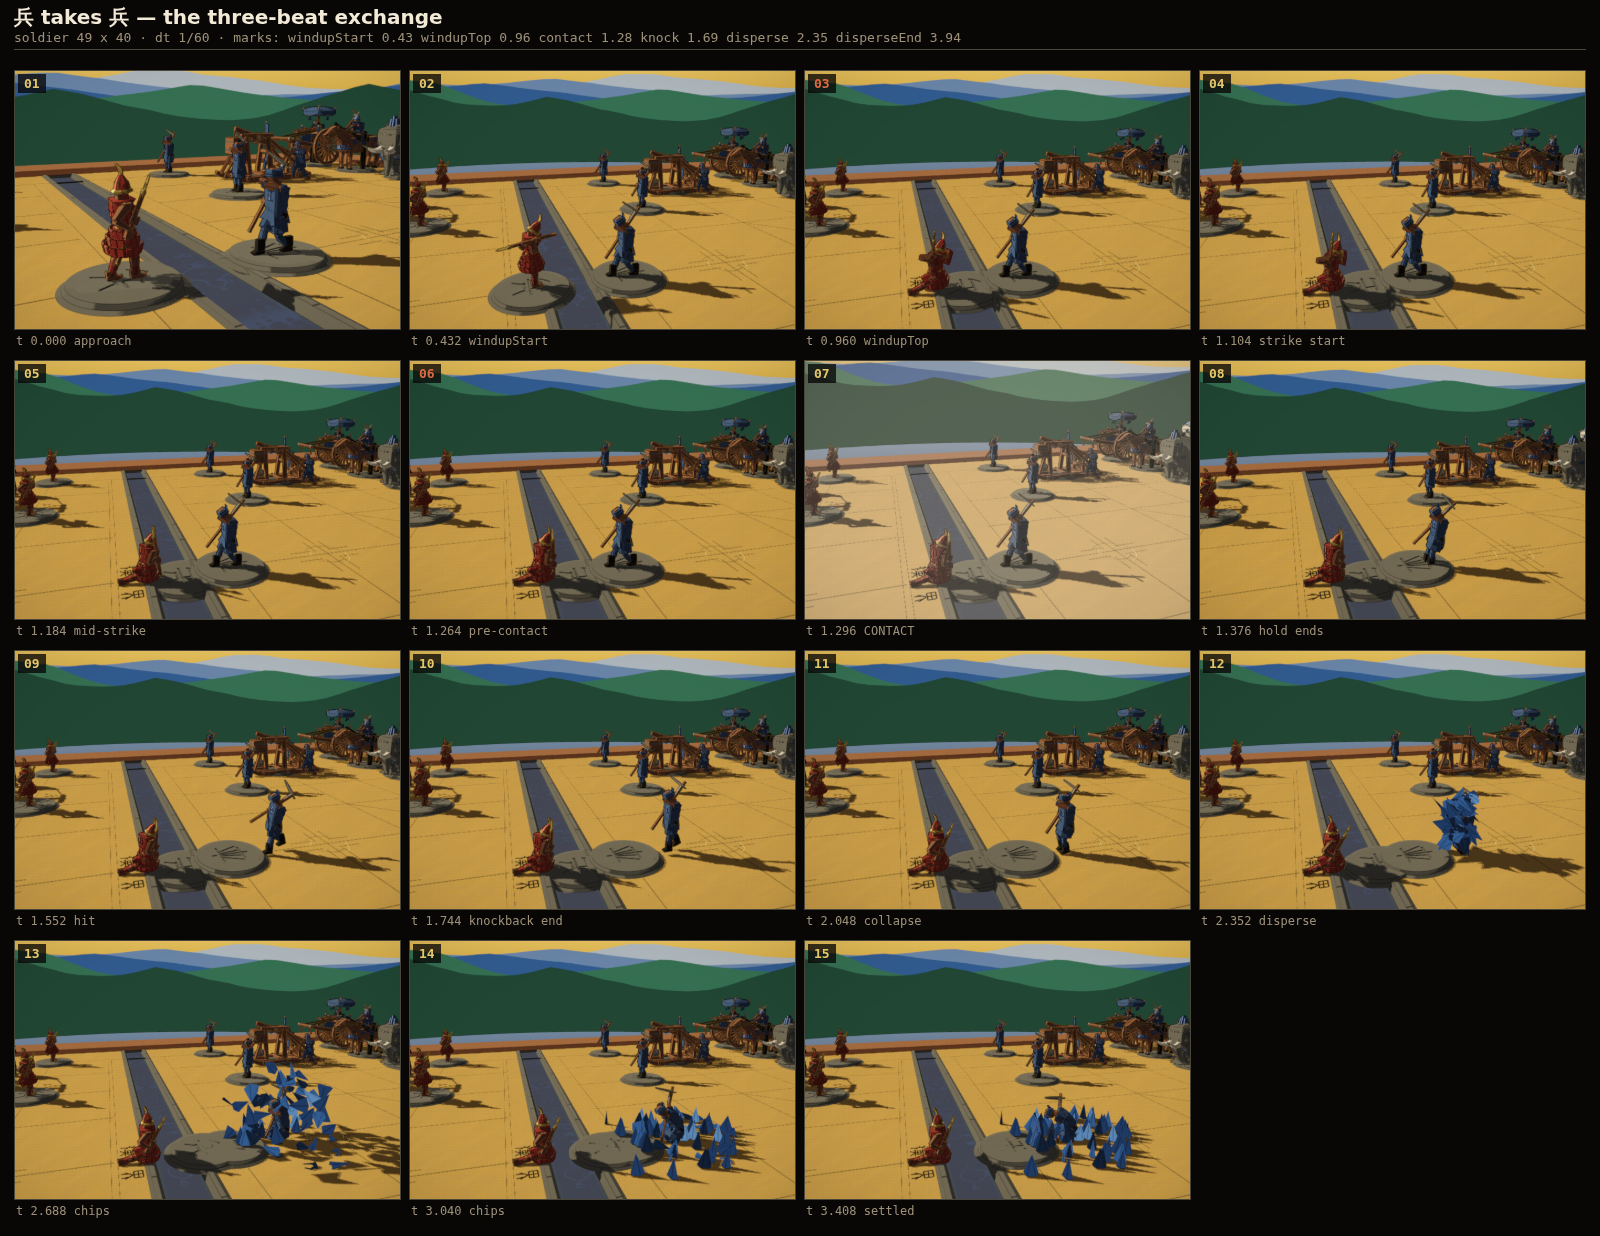
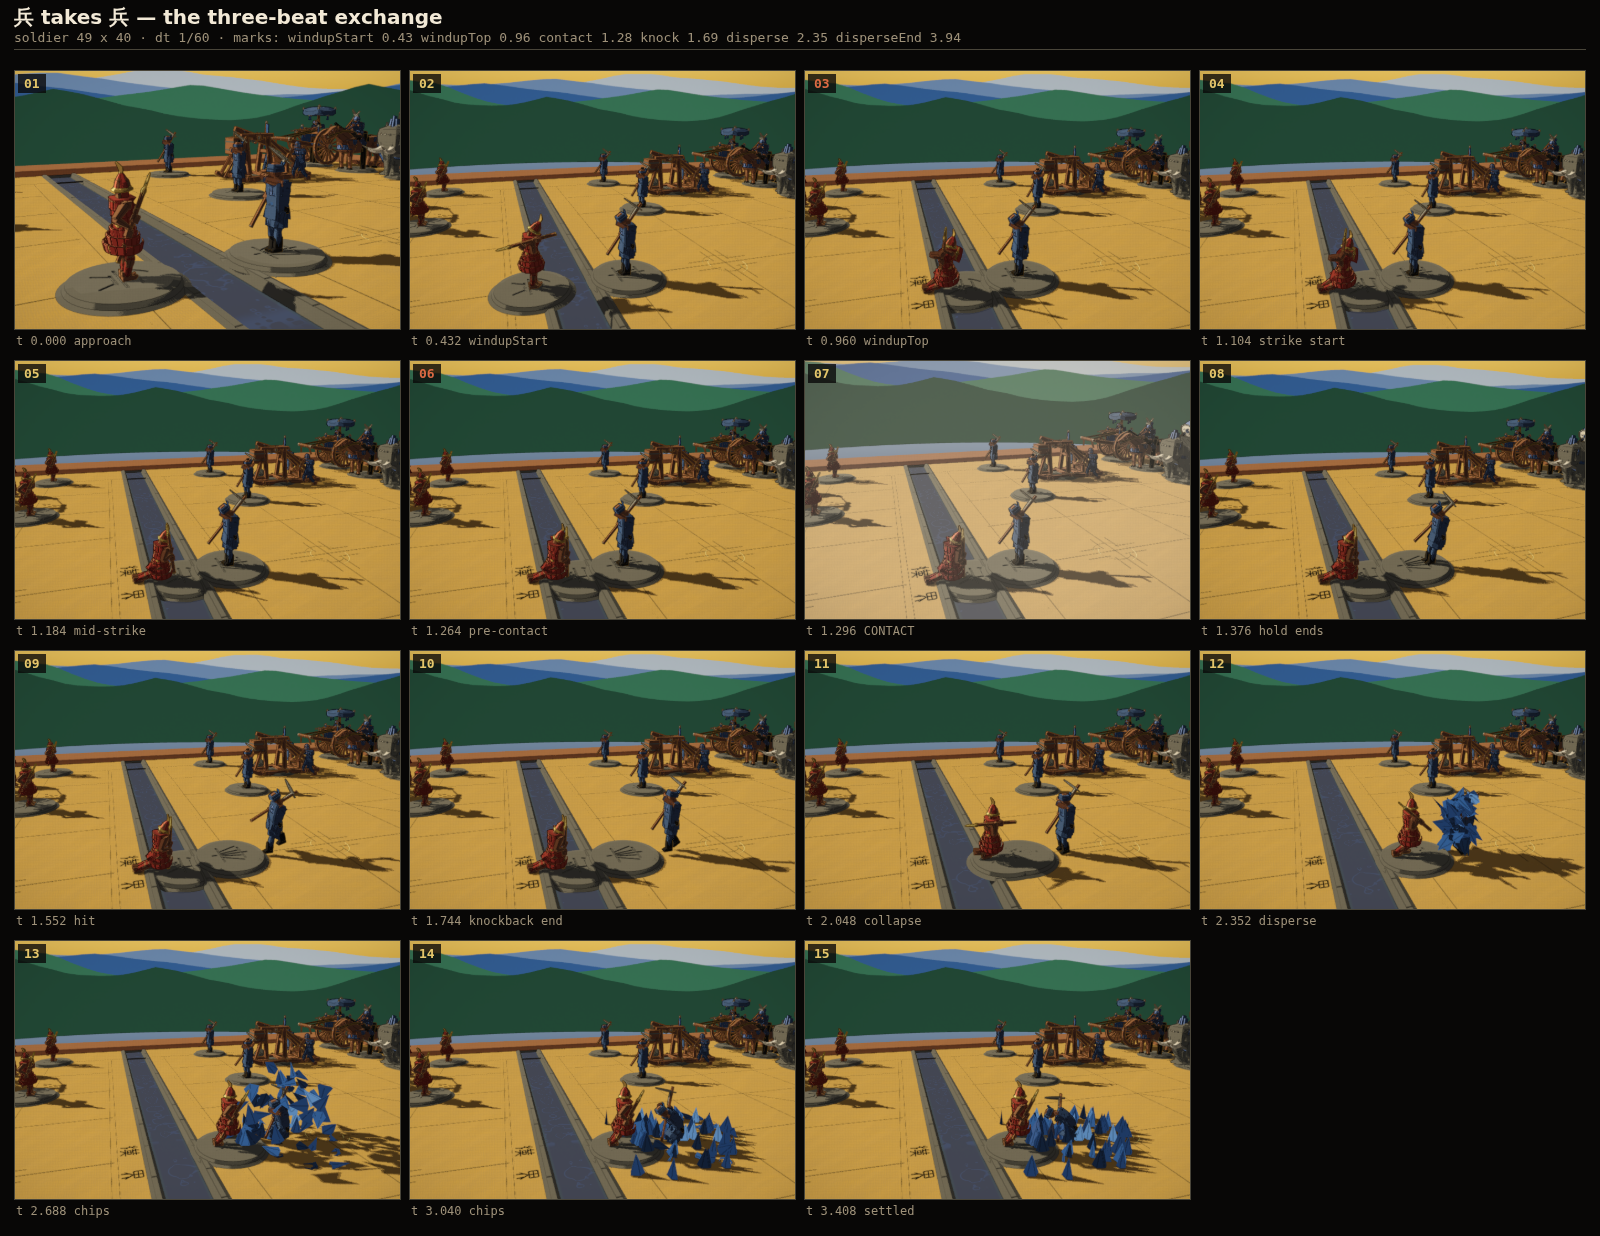
The dead-animation bug was an orphaned animator in the harness, not the mixer
The motion critic's defects 1-4 reproduced exactly, and the cause was not where
any of us looked. The AnimationMixer was fine all along: buildClipSet ->
AnimationMixer -> unit.bones[*].quaternion works, every track name resolves, and
the retarget/IK/contact order does not stamp the pose. What was broken is that
the figure being animated was not the figure on the board.

__XQ.forceMove called match.sync() with no {from, to} hint, so sync retired the
figure and spawned a brand-new UnitInstance — while main.ts's `animators` map is
keyed on the OLD unit.root. animatorFor() therefore missed, and every
choreographer play() became a silent no-op. The choreographer's DIRECT writes —
root position, facing, visibility — kept working, which is exactly why this
presented as "everything through the mixer is dead and everything written to a
transform lives". Measured on the page: all nineteen bone quaternions
byte-identical across 80 consecutive frames while the root translated 0.58 world
units. The same exchange set up with legal playMoves animated fully.

Match.settle has always passed the hint; forceMove now matches it. setPosition
rebuilds every figure by design and so cannot use a hint — it now prunes the
animator map instead, which was otherwise left holding entries keyed on disposed
roots that the frame loop went on ticking against dead skeletons.

The animation author also found a real bug in their own file while chasing this:
[…]

diff --git a/src/main.ts b/src/main.ts
@@ -191,6 +191,17 @@ const choreographer = createChoreographer({
   ground: rig.heightAt,
 });
 
+/** Drop animators whose figure is no longer on the board, and dispose them. */
+function pruneAnimators(): void {
+  const live = new Set<THREE.Object3D>();
+  for (const view of match.views.values()) live.add(view.unit.root);
+  for (const [root, a] of animators) {
+    if (live.has(root)) continue;
+    a.dispose();
+    animators.delete(root);
+  }
+}
+
 function animatorFor(view: PieceView): Animator {
   let a = animators.get(view.unit.root);
   if (!a) {
@@ -585,6 +596,11 @@ const api: XqTestApi = {
     match.moves.length = 0;
     match.notation.length = 0;
     match.sync();
+    // sync() rebuilds every figure here by design, so unlike an ordinary move
+    // there is no from/to hint that would preserve them. That leaves the
+    // animator map holding entries keyed on disposed roots, which the frame loop
+    // would go on ticking against dead skeletons.
+    pruneAnimators();
     for (const view of match.views.values()) {
       dressUnit(view);
       animatorFor(view).play('idle', 0);
@@ -602,7 +618,15 @@ const api: XqTestApi = {
     if (!m) return;
     match.pos.makeMove(m);
     match.moves.push(m);
-    match.sync();
+    // The hint is not optional. Without it, sync() retires the figure and spawns
+    // a brand-new UnitInstance, while `animators` is keyed on the OLD unit.root
+    // — so animatorFor() misses, every choreographer play() becomes a silent
+    // no-op, and the figure slides across the board with its pose frozen at
+    // bind. The choreographer's direct writes (root position, facing,
+    // visibility) keep working, which is what made this look like a dead
+    // AnimationMixer rather than an orphaned animator. Match.settle passes the
+    // same hint; forceMove must match it.
+    match.sync({ from, to });
   },
   legalMoves: (from?: number): Move[] =>
     from === undefined
